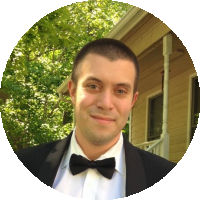
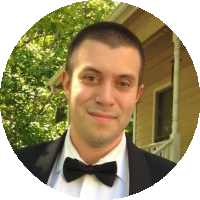
Added headshots, updated Chris's headshot

diff --git a/wedding.html b/wedding.html
@@ -259,7 +259,7 @@
                 </div>
                 <div class="col-md-3 col-sm-6 col-xs-12">
                     <div class="weddingpartymember">
-                        <img src="images/wedding/headshot.png" />
+                        <img src="images/wedding/headshot-katherine.png" />
                         <div>
                             <span class="name">Katherine</span><br/>
                             <label>Maid of Honor</label>
@@ -326,7 +326,7 @@
             <div class="row">
                 <div class="col-md-4 col-sm-6 col-xs-12">
                     <div class="weddingpartymember">
-                        <img src="images/wedding/headshot.png" />
+                        <img src="images/wedding/headshot-tyler.png" />
                         <div>
                             <span class="name">Tyler</span><br/>
                             <label>Flower Girl</label>
